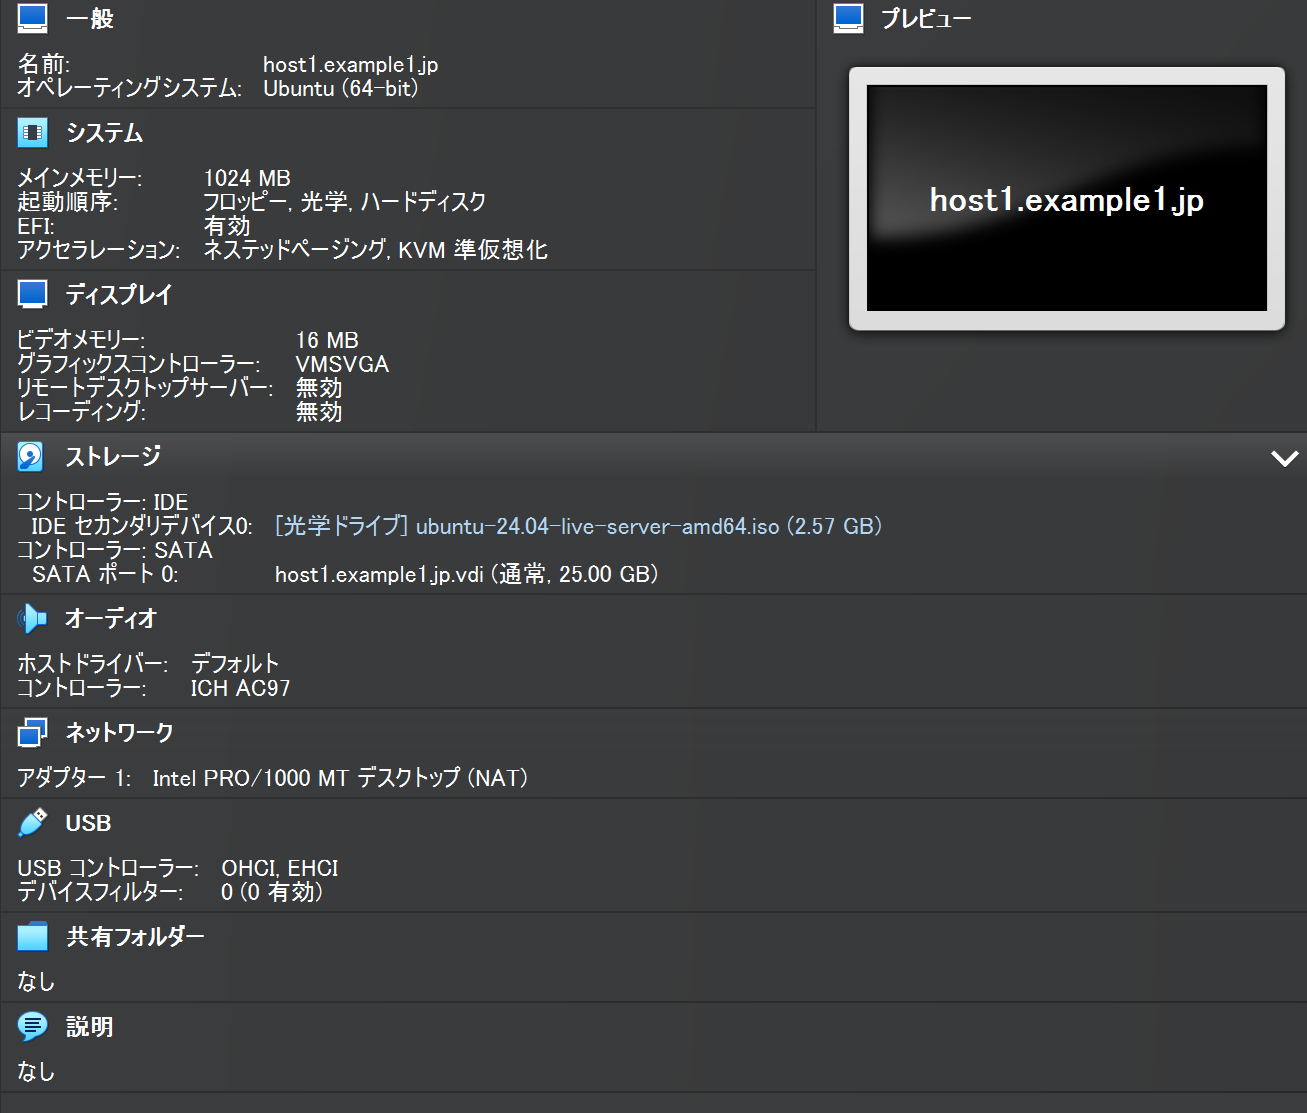
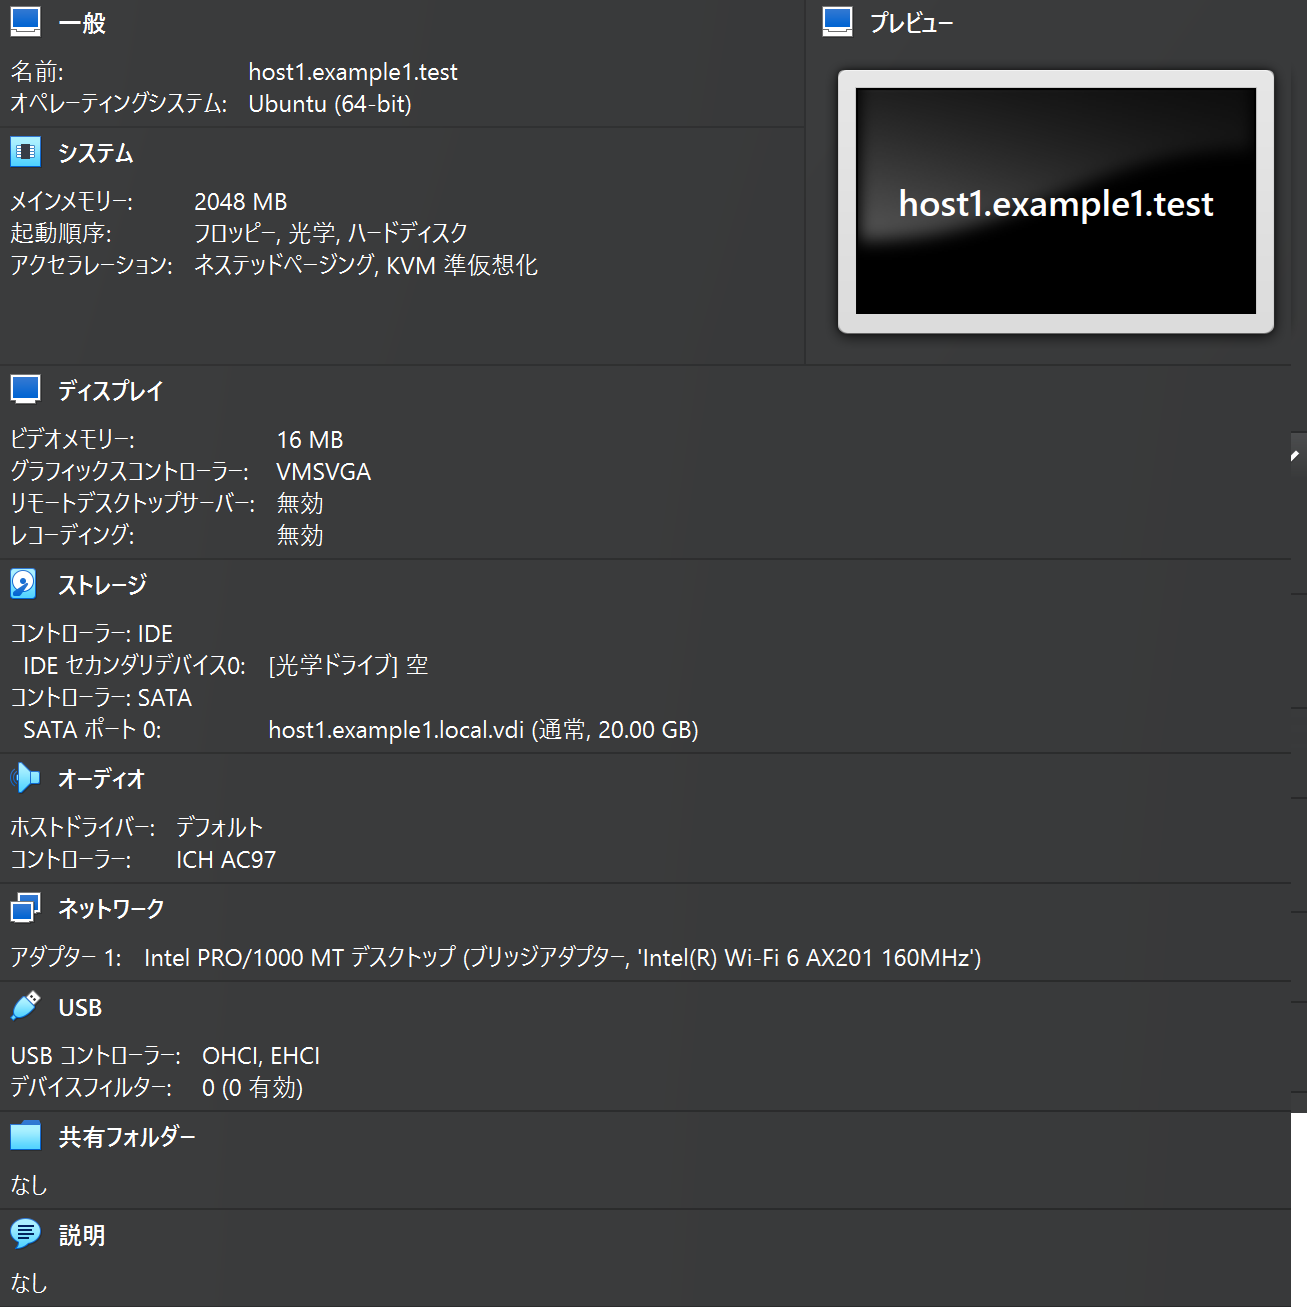
20250815_Updates
typo
・".jp"→".test"

作成協力者の更新

文章表現や図の更新

diff --git a/ubuntu/Chapter0.md b/ubuntu/Chapter0.md
@@ -91,9 +91,12 @@ include-before: |
   本教科書は、Linux/オープンソースソフトウェアをこれから勉強する皆さんと、熱心に指導に当たられている先生方の一助になればと思い、作成いたしました。
 
   ### 開発にご協力をいただいた方々（50音順） {.unlisted .unnumbered}
-  - 鯨井 貴博（LinuCエヴァンジェリスト/株式会社ゼウス・エンタープライズ）
+  レビュアー、そして利用者の皆様からフィードバックをいただきました。厚く御礼申し上げます。
 
-  また、レビュアー、そして利用者の皆様からフィードバックをいただきました。厚く御礼申し上げます。
+  - 宮原 徹
+  - LinuC Open Network 教材開発プロジェクト(https://linuc.community/)
+
+  
 
   ## 著作権 {.unlisted .unnumbered}
   本教科書の著作権は特定非営利活動法人エルピーアイジャパンに帰属します。

diff --git a/ubuntu/Chapter4.md b/ubuntu/Chapter4.md
@@ -412,9 +412,9 @@ ubuntu@host1example1test:~$ sudo sh -c "echo 'Welcome to My First Web Server' > 
 
 \pagebreak
 ### Webブラウザからのアクセスとログの確認
-Webブラウザから再度Webサーバーにアクセスしてみます。今度はテストページではなく、「Hello,World」の文字列が表示されたのではないでしょうか。
+Webブラウザから再度Webサーバーにアクセスしてみます。今度はテストページではなく、変更したメッセージが表示されたのではないでしょうか。
 
-![「Hello,World」に表示が変わった画面](image/Ch4/Welcome.png){width=70%}
+![メッセージ表示が変わった画面](image/Ch4/Welcome.png){width=70%}
 
 また、アクセスログにどのように記録されているか、エラーログにエラーが記録されていないことも確認してみてください。
 

diff --git a/ubuntu/Chapter2.md b/ubuntu/Chapter2.md
@@ -94,7 +94,7 @@ https://www.virtualbox.org/
 
 ![VirtualBoxのダウンロードサイト](image/Ch2/VirtualBoxOrgDownload.png){width=70%}
 
-今回はバージョン7.1.18を使用しています。
+今回はバージョン7.1.8を使用しています。
 
 \pagebreak
 ### VirtualBoxのインストーラの実行
